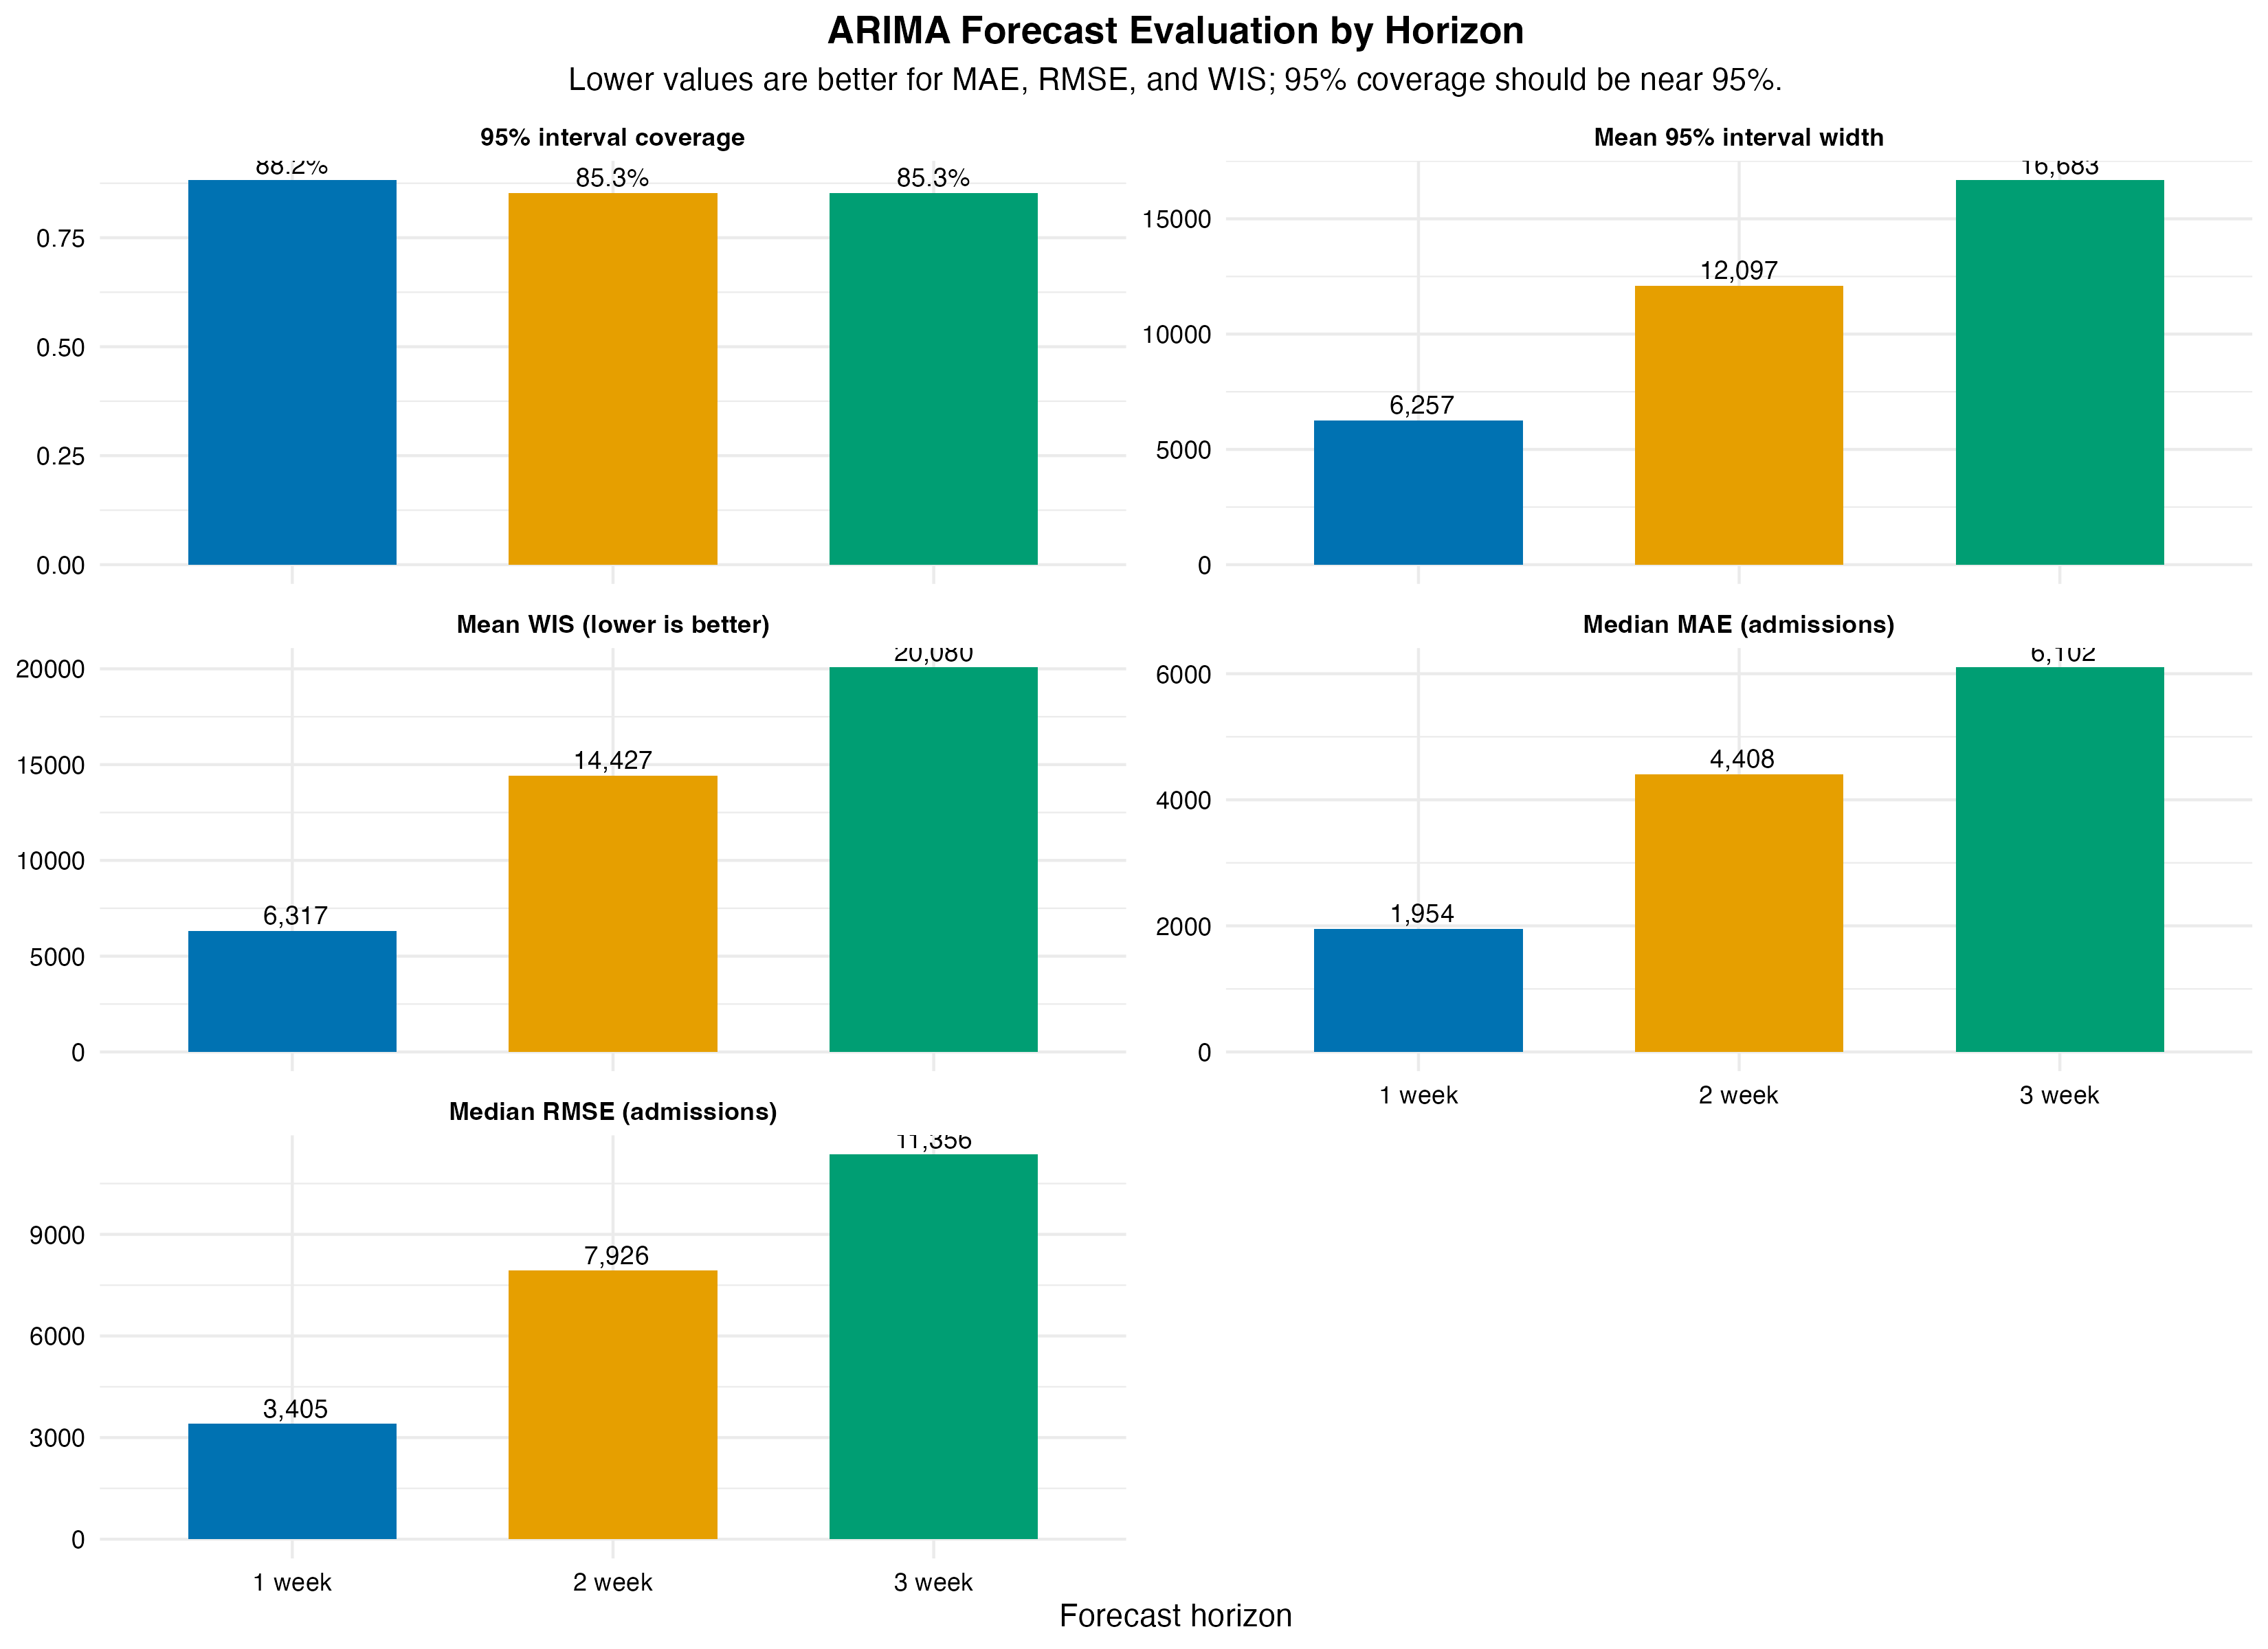
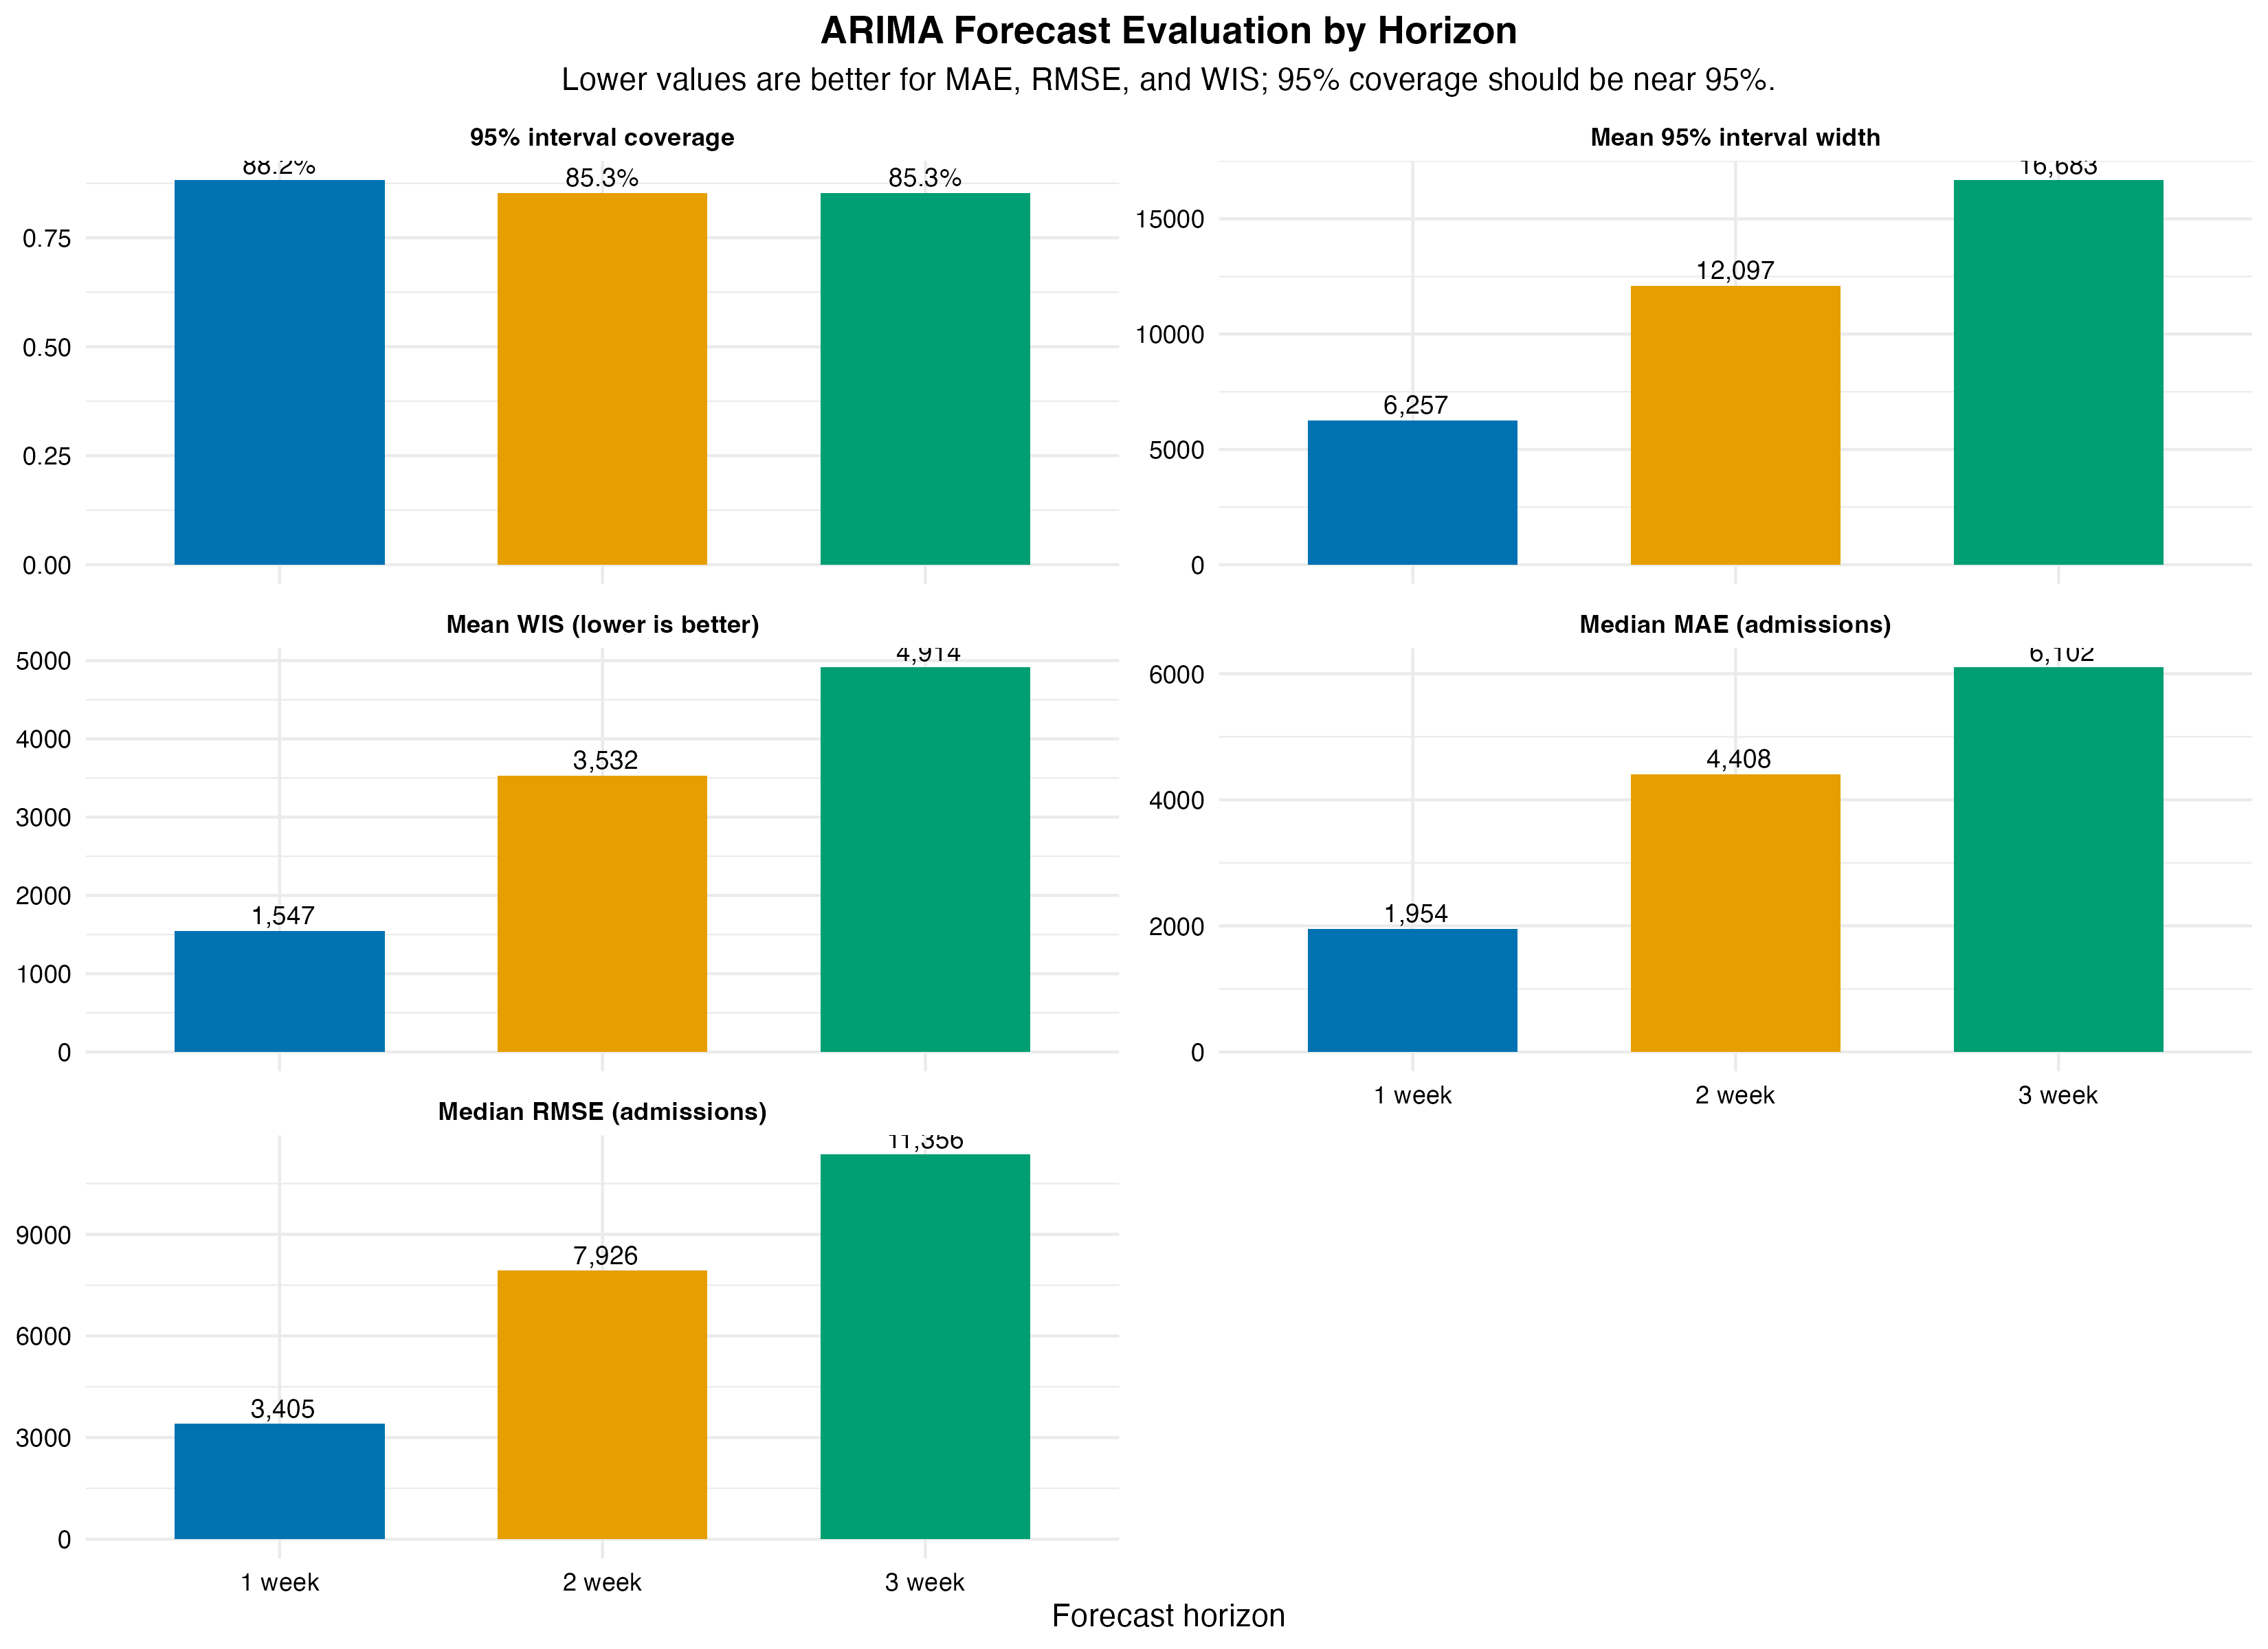
Use scoringutils for activity 4 evaluation

diff --git a/USE-ME/carolmoreira/rules.md b/USE-ME/carolmoreira/rules.md
@@ -417,7 +417,8 @@ when absent, at 300 DPI.
 # Activity 4: Evaluation
 
 Save evaluation code to `output/scripts/04_evaluation.R`. Create all missing
-output folders before writing files.
+output folders before writing files. Use the `scoringutils` package for
+quantile-forecast scoring metrics.
 
 ## 1. Input and Evaluation Set
 
@@ -435,9 +436,12 @@ output folders before writing files.
 
 - For each reference-date/horizon forecast, calculate median absolute error,
   squared error, 95% prediction-interval width, and 95% coverage using the
-  `0.025` and `0.975` quantiles.
-- Calculate the weighted interval score (WIS) across all 23 quantiles. Lower
-  WIS is better because it rewards accurate, sharp, calibrated forecasts.
+  `0.025` and `0.975` quantiles. Use
+  `scoringutils::ae_median_quantile()` for median absolute error and
+  `scoringutils::interval_coverage()` for 95% coverage.
+- Calculate the weighted interval score (WIS) across all 23 quantiles using
+  `scoringutils::wis()`. Lower WIS is better because it rewards accurate,
+  sharp, calibrated forecasts.
 - Summarize, separately for horizons 1, 2, and 3: number of scored forecasts,
   MAE, RMSE, mean WIS, 95% coverage, and mean 95% interval width.
 - Validate all input parsing, the required quantile ladder, existence of